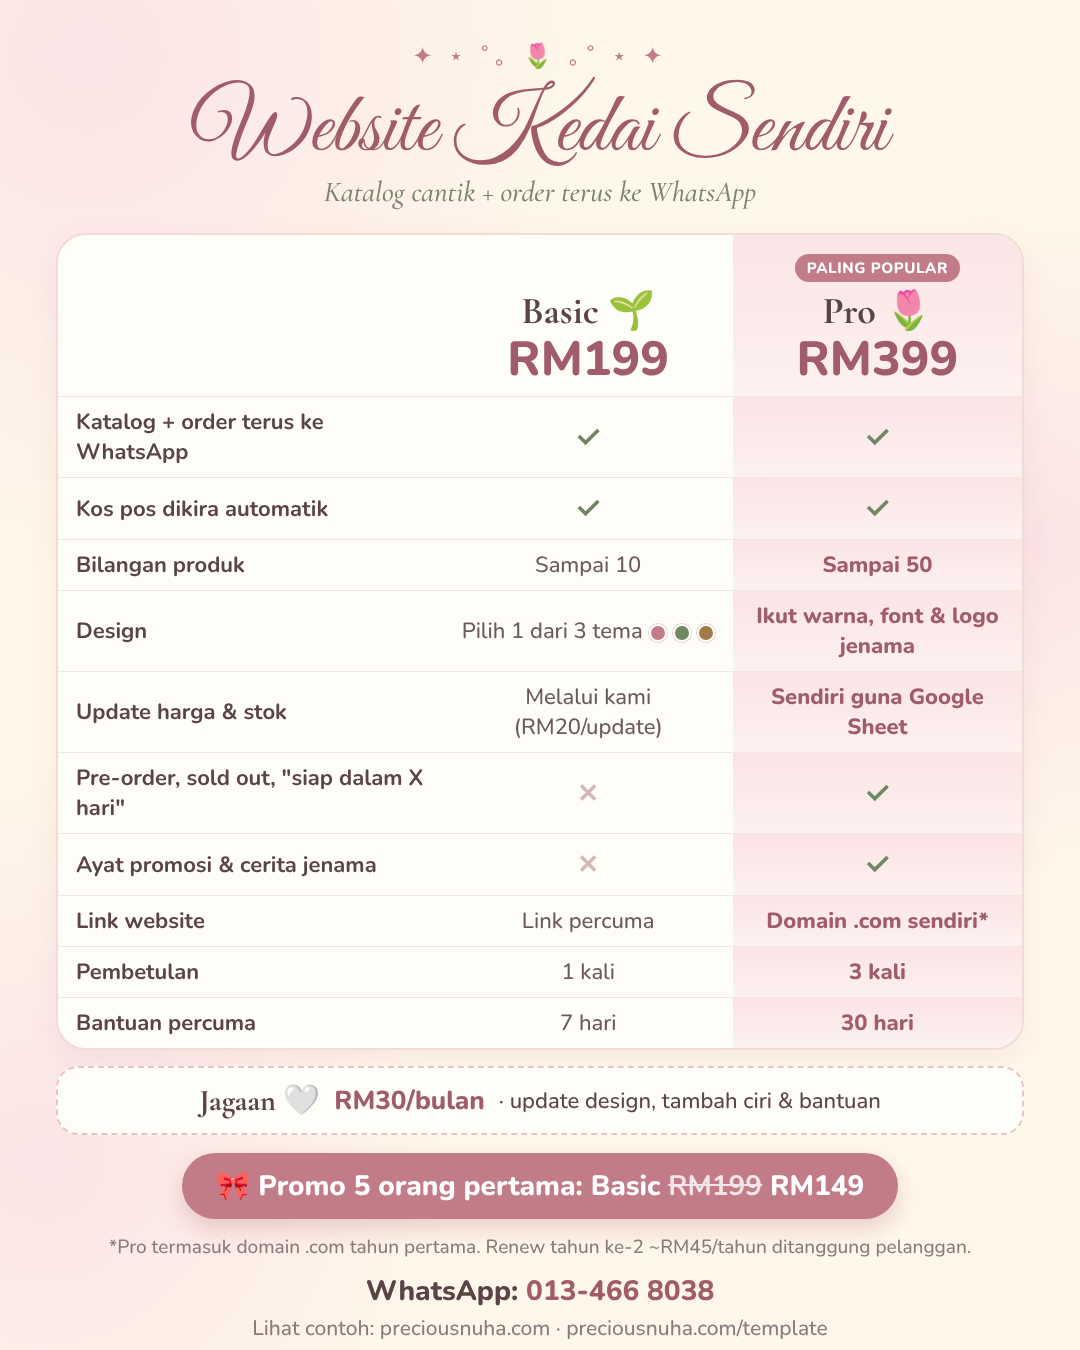
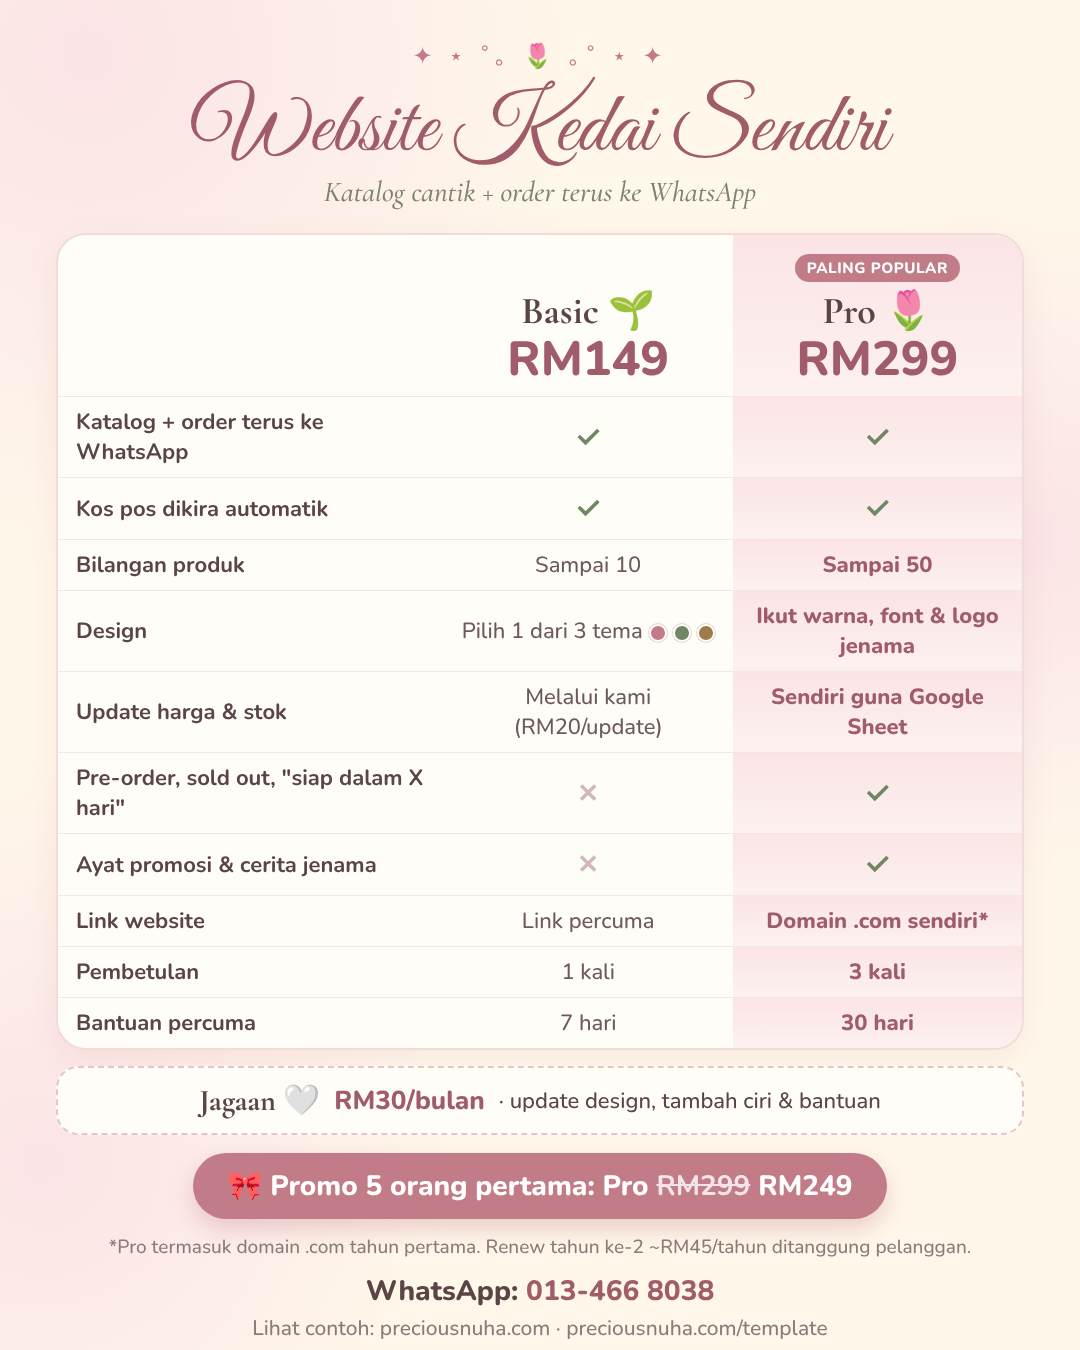
Lower prices to Basic RM149 and Pro RM299, promo Pro RM249
Claude-Session: https://claude.ai/code/session_01TRPCWUAsJY6W9kDWZn4YYZ

Changed region(s): [[0.1528, 0.84, 0.8556, 0.9022], [0.55, 0.2489, 0.6111, 0.28], [0.7944, 0.2489, 0.825, 0.28]]

diff --git a/marketing/harga-website.html b/marketing/harga-website.html
@@ -60,8 +60,8 @@
   <table>
     <tr>
       <th></th>
-      <th><span class="pname">Basic 🌱</span><span class="pprice">RM199</span></th>
-      <th class="pro"><span class="pop">PALING POPULAR</span><span class="pname">Pro 🌷</span><span class="pprice">RM399</span></th>
+      <th><span class="pname">Basic 🌱</span><span class="pprice">RM149</span></th>
+      <th class="pro"><span class="pop">PALING POPULAR</span><span class="pname">Pro 🌷</span><span class="pprice">RM299</span></th>
     </tr>
     <tr><td>Katalog + order terus ke WhatsApp</td><td class="yes">✓</td><td class="pro yes">✓</td></tr>
     <tr><td>Kos pos dikira automatik</td><td class="yes">✓</td><td class="pro yes">✓</td></tr>
@@ -79,7 +79,7 @@
 
   <div class="care"><b>Jagaan 🤍</b><span class="p">RM30/bulan</span><span>· update design, tambah ciri &amp; bantuan</span></div>
 
-  <p class="promo">🎀 Promo 5 orang pertama: Basic <s>RM199</s> RM149</p>
+  <p class="promo">🎀 Promo 5 orang pertama: Pro <s>RM299</s> RM249</p>
   <p class="fine">*Pro termasuk domain .com tahun pertama. Renew tahun ke-2 ~RM45/tahun ditanggung pelanggan.</p>
 
   <p class="contact">WhatsApp: <span>013-466 8038</span></p>

diff --git a/template/PANDUAN.md b/template/PANDUAN.md
@@ -87,7 +87,7 @@ Buka demo dengan `?theme=` di hujung link:
 
 ## Pakej & harga
 
-| | Basic RM199 | Pro RM399 |
+| | Basic RM149 | Pro RM299 |
 |---|---|---|
 | Katalog + order WhatsApp, kos pos automatik | ✓ | ✓ |
 | Bilangan produk | Sampai 10 | Sampai 50 |
@@ -100,6 +100,6 @@ Buka demo dengan `?theme=` di hujung link:
 | Bantuan percuma | 7 hari | 30 hari |
 
 **Jagaan:** RM30/bulan (update design, tambah ciri, bantuan) atau RM20 setiap kali update.
-**Promo 5 pelanggan pertama:** Basic RM149, dengan syarat bagi testimoni.
+**Promo 5 pelanggan pertama:** Pro RM249, dengan syarat bagi testimoni.
 
 \*Renew domain tahun ke-2 ~RM45/tahun ditanggung pelanggan. Daftar domain dalam akaun pelanggan sendiri, beli .com sahaja, dan catat tarikh renew.
